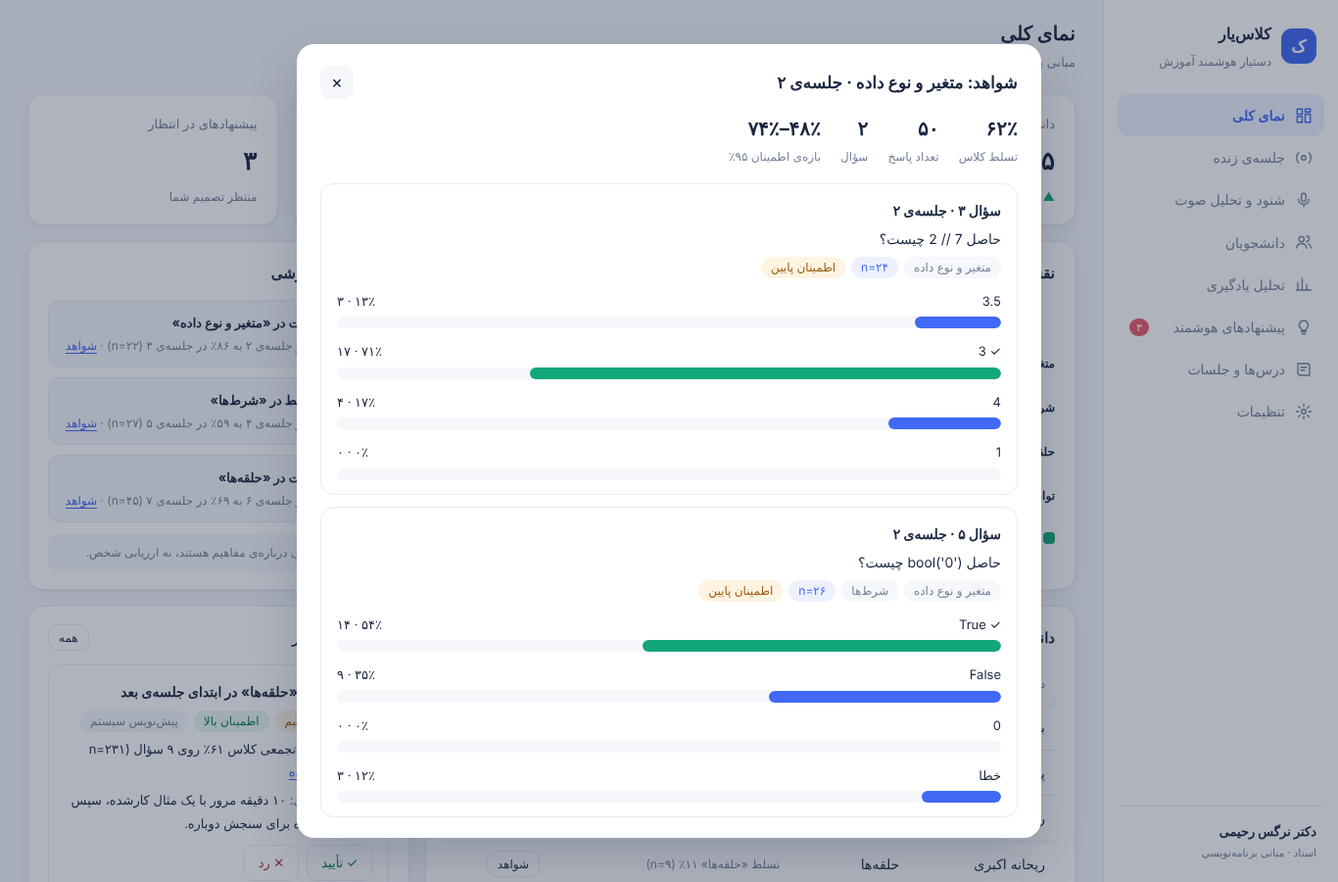
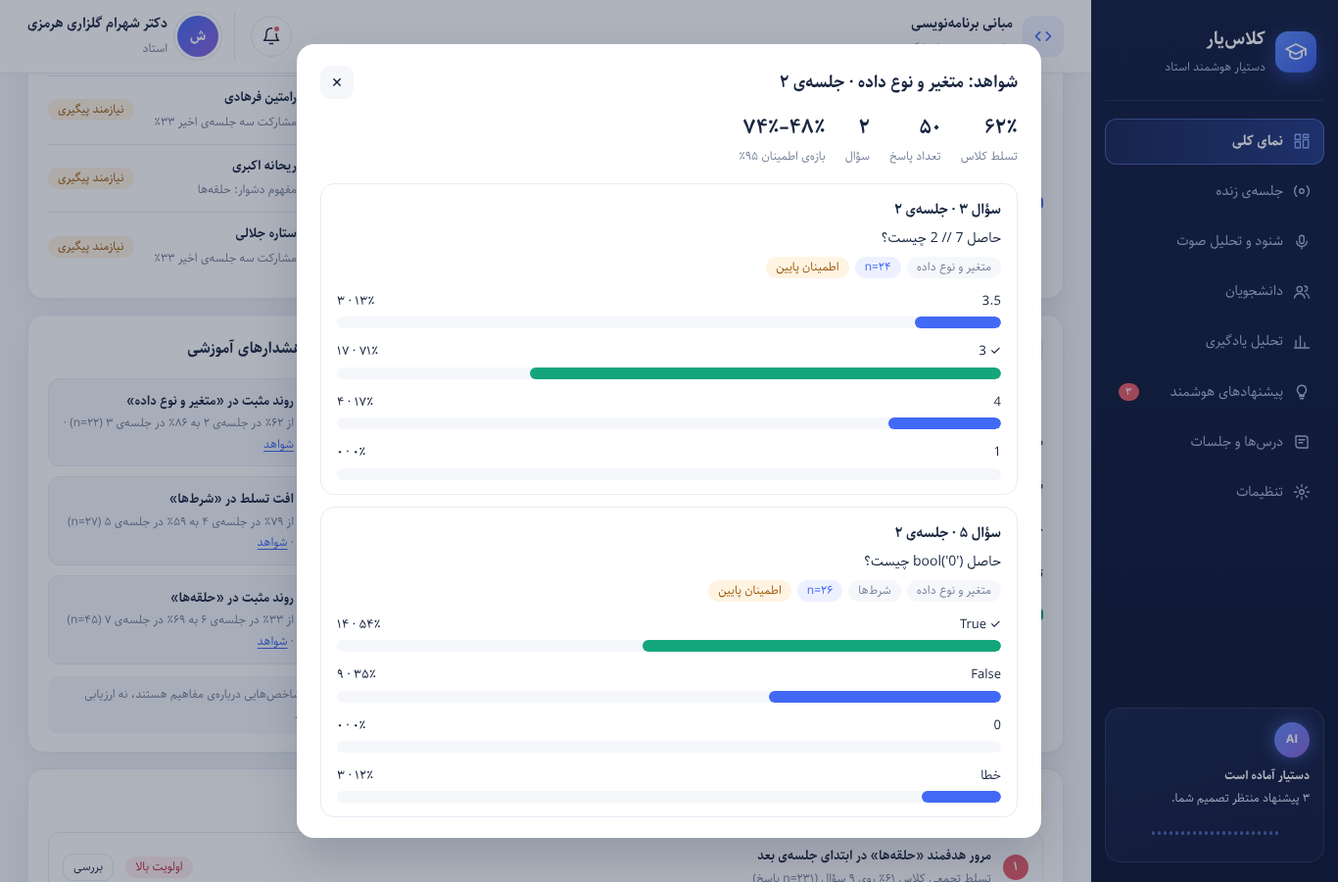
Redesign prototype UI: dark sidebar, top bar with live timer, AI assistant card, teacher greeting
Claude-Session: https://claude.ai/code/session_01KuYLP2b9Hy3ASqmPUQVQBk

diff --git a/prototype.html b/prototype.html
@@ -171,23 +171,113 @@ canvas.wave{width:100%;height:60px;display:block;background:var(--bg);border-rad
   .g2,.g4{grid-template-columns:minmax(0,1fr)}
   .topbar .sub{display:none}
 }
+
+/* ===== visual theme: dark sidebar, white top bar, soft cards ===== */
+:root{--navy:#0c1532;--navy-2:#16224d;--side-ink:#aab6d6}
+.sidebar{background:linear-gradient(180deg,#101b3f 0%,#0a1230 100%);border-left:0;width:252px;padding:20px 14px}
+.brand{border-bottom:1px solid rgba(255,255,255,.08);margin-bottom:14px;padding:4px 8px 20px}
+.brand .logo{width:42px;height:42px;border-radius:13px;background:linear-gradient(135deg,#5b8cff,#3a5ce8);box-shadow:0 6px 20px rgba(65,105,245,.45)}
+.brand .logo svg{width:24px;height:24px}
+.brand b{color:#fff;font-size:18px}.brand small{color:var(--side-ink)}
+.nav-btn{color:var(--side-ink);padding:11px 14px;margin-bottom:4px;border-radius:12px}
+.nav-btn:hover{background:rgba(255,255,255,.06);color:#fff}
+.nav-btn[aria-current=page]{background:linear-gradient(270deg,rgba(65,105,245,.38),rgba(65,105,245,.12));color:#fff;font-weight:700;box-shadow:inset 0 0 0 1px rgba(120,150,255,.45)}
+.nav-btn[aria-current=page] svg{color:#86a6ff}
+.ai-widget{margin-top:auto;border:1px solid rgba(255,255,255,.1);border-radius:16px;padding:14px;background:linear-gradient(160deg,rgba(91,140,255,.10),rgba(140,98,219,.06));color:#dfe6fa;font-size:12px;line-height:1.9}
+.ai-widget .bot{width:36px;height:36px;border-radius:50%;background:linear-gradient(135deg,#5b8cff,#8c62db);display:grid;place-items:center;font-weight:700;font-size:12px;color:#fff;box-shadow:0 0 18px rgba(91,140,255,.55);margin-bottom:8px}
+.ai-widget b{color:#fff}
+.eq{display:flex;align-items:center;gap:3px;height:30px;justify-content:center;margin-top:8px}
+.eq i{width:3px;border-radius:2px;background:#6f93ff;height:4px;opacity:.6}
+.eq.on i{animation:eq 1.1s ease-in-out infinite;opacity:1}
+@keyframes eq{0%,100%{height:4px}50%{height:26px}}
+.topbar{background:#fff;border-bottom:1px solid var(--line);padding:12px 28px;gap:16px;box-shadow:0 2px 10px rgba(25,38,64,.03)}
+.lesson{display:flex;align-items:center;gap:10px}
+.lesson-ic{width:42px;height:42px;border-radius:12px;background:var(--pale);color:var(--blue);display:grid;place-items:center}
+.lesson-ic svg{width:20px;height:20px}
+.lesson b{display:block;font-size:14px}.lesson small{color:var(--muted);font-size:12px}
+.live-chip{display:none;align-items:center;gap:10px;background:#f7f9fd;border:1px solid var(--line);border-radius:14px;padding:5px 12px 5px 8px}
+.live-chip.on{display:inline-flex}
+.live-chip .pill{background:var(--green-bg);color:#0b7a5a;border-radius:99px;padding:0 12px;font-size:12px;font-weight:700;line-height:26px}
+.live-chip .timer{color:var(--purple);font-weight:700;direction:ltr;font-size:15px;letter-spacing:.5px}
+.live-chip svg{width:18px;height:18px;color:var(--blue)}
+.bell{position:relative;width:42px;height:42px;border-radius:50%;border:1px solid var(--line);background:#fff;display:grid;place-items:center;color:var(--ink)}
+.bell svg{width:20px;height:20px}
+.bell .dot{position:absolute;top:8px;right:10px;width:9px;height:9px;border-radius:50%;background:var(--red);border:2px solid #fff}
+.teacher{display:flex;align-items:center;gap:10px;padding-inline-start:16px;border-inline-start:1px solid var(--line)}
+.teacher b{display:block;font-size:14px}.teacher small{color:var(--muted);font-size:12px}
+.avatar{width:42px;height:42px;border-radius:50%;display:grid;place-items:center;color:#fff;font-weight:700;flex:none;box-shadow:0 0 0 3px #fff,0 0 0 4px var(--line)}
+.avatar.sm{width:36px;height:36px;font-size:13px;box-shadow:none}
+.page-head{padding:24px 28px 16px}
+.page-head h1{font-size:24px;margin:0;display:flex;align-items:center;gap:8px}
+.page-head .sub{color:var(--muted);font-size:13px;margin-top:2px}
+.hand{display:inline-block;animation:wave 2.4s ease-in-out 2;transform-origin:70% 70%}
+@keyframes wave{0%,60%,100%{transform:rotate(0)}10%,30%{transform:rotate(16deg)}20%{transform:rotate(-8deg)}40%{transform:rotate(-4deg)}50%{transform:rotate(10deg)}}
+@media (prefers-reduced-motion:reduce){.hand,.eq.on i,.listen-pill .dot{animation:none}}
+.card{border:1px solid #e9edf6;box-shadow:0 1px 3px rgba(25,38,64,.03),0 12px 32px rgba(25,38,64,.05)}
+.card h2{font-size:15.5px}
+.hic{width:32px;height:32px;border-radius:10px;display:grid;place-items:center;flex:none}
+.hic svg{width:18px;height:18px}
+.hic.blue{background:var(--pale);color:var(--blue)}.hic.green{background:var(--green-bg);color:var(--green)}
+.hic.orange{background:var(--orange-bg);color:#d98415}.hic.purple{background:var(--purple-bg);color:var(--purple)}.hic.red{background:var(--red-bg);color:var(--red)}
+.stat{padding:18px 20px;gap:6px}
+.stat .top{display:flex;align-items:center;justify-content:space-between;gap:10px}
+.stat .sic{width:46px;height:46px;border-radius:14px}
+.stat .value{font-size:28px;line-height:1.3}
+.ai-card{background:linear-gradient(135deg,#f3efff 0%,#edf2ff 55%,#f8faff 100%);border:1px solid #e0e2fb;position:relative;overflow:hidden}
+.ai-card::before{content:"";position:absolute;width:260px;height:260px;border-radius:50%;background:radial-gradient(circle,rgba(140,98,219,.20),transparent 70%);top:-110px;left:-70px;pointer-events:none}
+.ai-card>*{position:relative}
+.ai-badge{width:32px;height:32px;border-radius:50%;background:linear-gradient(135deg,#5b8cff,#8c62db);color:#fff;font-size:12px;font-weight:700;display:grid;place-items:center;box-shadow:0 4px 14px rgba(91,140,255,.4)}
+.ai-inner{background:#fff;border-radius:14px;padding:16px 18px;box-shadow:0 6px 20px rgba(65,105,245,.08)}
+.ai-inner h3{font-size:15px;margin:10px 0 6px}
+.ai-inner p{margin:4px 0;font-size:13px}
+.flag{display:inline-block;background:var(--orange);color:#fff;border-radius:8px;padding:0 12px;font-size:12px;font-weight:700;line-height:24px}
+.mini{display:grid;grid-template-columns:repeat(3,minmax(0,1fr));gap:10px;margin-top:14px}
+.mini>div{background:#fff;border:1px solid var(--line);border-radius:12px;padding:10px 12px;text-align:center;font-size:12px;color:var(--muted)}
+.mini b{font-size:21px;display:block;line-height:1.5}
+.t-green{color:var(--green)}.t-orange{color:#e08a17}.t-red{color:var(--red)}.t-blue{color:var(--blue)}
+.dark-card{background:linear-gradient(165deg,#16224d,#0b1430);color:#dfe6fa;border:0}
+.dark-card h2{color:#fff}
+.dark-card .item{border-bottom:1px solid rgba(255,255,255,.08);padding:10px 0;font-size:13px}
+.dark-card .item:last-child{border:0}
+.dark-card .item .lbl{display:block;color:#9fb0d6;font-size:12px}
+.dark-card .item b{color:#fff}
+.dark-card .hic{background:rgba(255,255,255,.08);color:#9db7ff}
+.person{display:flex;align-items:center;gap:10px;padding:10px 0;border-bottom:1px solid var(--line);cursor:pointer}
+.person:last-child{border:0}
+.person .who{flex:1;min-width:0}
+.person .who b{display:block;font-size:13px}.person .who small{color:var(--muted);font-size:12px}
+.crow{padding:9px 0;border-bottom:1px solid var(--line);cursor:pointer;display:block;width:100%;background:none;border-width:0 0 1px;text-align:right}
+.crow:last-child{border:0}
+.crow .top{display:flex;justify-content:space-between;font-size:13px;margin-bottom:5px;gap:8px}
+.prio{display:flex;align-items:center;gap:12px;border:1px solid var(--line);border-radius:12px;padding:12px 14px;background:#fff}
+.prio+.prio{margin-top:10px}
+.prio .num{width:26px;height:26px;border-radius:50%;color:#fff;display:grid;place-items:center;font-size:12px;font-weight:700;flex:none}
+.prio .txt{flex:1;font-size:13px}
+.span2{grid-column:span 2}
+@media (max-width:1100px){.span2{grid-column:auto}}
+@media (max-width:900px){.teacher>div:last-child,.lesson>div{display:none}.teacher{border:0;padding:0}}
+@media (max-width:720px){.page-head{padding:16px 16px 10px}.page-head h1{font-size:19px}.topbar{padding:10px 16px;gap:10px}.lesson{display:none}.live-chip .pill{display:none}.mini b{font-size:17px}}
 </style>
 </head>
 <body>
 <div class="layout">
   <aside class="sidebar" id="sidebar" aria-label="منوی اصلی">
-    <div class="brand"><div class="logo" aria-hidden="true">ک</div><div><b>کلاسیار</b><small>دستیار هوشمند آموزش</small></div></div>
+    <div class="brand"><div class="logo" aria-hidden="true"><svg viewBox="0 0 24 24" fill="none" stroke="#fff" stroke-width="1.8" stroke-linecap="round" stroke-linejoin="round"><path d="M2 9l10-5 10 5-10 5z"/><path d="M6 11v5c0 1.5 3 3 6 3s6-1.5 6-3v-5M22 9v6"/></svg></div><div><b>کلاسیار</b><small>دستیار هوشمند استاد</small></div></div>
     <nav id="nav"></nav>
-    <div class="me"><b>دکتر نرگس رحیمی</b><small>استاد · مبانی برنامهنویسی</small></div>
+    <div class="ai-widget" id="aiWidget"></div>
   </aside>
   <div class="backdrop" id="backdrop" data-act="closeMenu"></div>
   <main>
     <header class="topbar">
       <button class="menu-btn" data-act="openMenu" aria-label="باز کردن منو">☰</button>
-      <div><h1 id="pageTitle"></h1><div class="sub" id="pageSub"></div></div>
+      <div class="lesson"><span class="lesson-ic" aria-hidden="true"><svg viewBox="0 0 24 24" fill="none" stroke="currentColor" stroke-width="2" stroke-linecap="round" stroke-linejoin="round"><path d="M8 7l-5 5 5 5M16 7l5 5-5 5"/></svg></span><div><b id="lessonTitle"></b><small id="lessonSub"></small></div></div>
       <div class="spacer"></div>
+      <div class="live-chip" id="liveChip" role="status"><span class="pill">در حال برگزاری</span><span class="timer" id="timer">00:00:00</span><svg viewBox="0 0 24 24" fill="none" stroke="currentColor" stroke-width="2" stroke-linecap="round" aria-hidden="true"><rect x="9" y="3" width="6" height="11" rx="3"/><path d="M5 11a7 7 0 0 0 14 0M12 18v3"/></svg></div>
       <span class="listen-pill" id="listenPill" role="status"><span class="dot" aria-hidden="true"></span>در حال شنود<button data-act="audioStop">توقف</button></span>
+      <button class="bell" data-act="go" data-v="suggestions" id="bell" aria-label="اعلانها"><svg viewBox="0 0 24 24" fill="none" stroke="currentColor" stroke-width="1.8" stroke-linecap="round" stroke-linejoin="round" aria-hidden="true"><path d="M6 8a6 6 0 0 1 12 0c0 7 3 9 3 9H3s3-2 3-9M10 21h4"/></svg></button>
+      <div class="teacher"><div class="avatar" id="teacherAvatar" style="background:linear-gradient(135deg,#4169f5,#8c62db)" aria-hidden="true"></div><div><b id="teacherName"></b><small>استاد</small></div></div>
     </header>
+    <div class="page-head"><h1 id="pageTitle"></h1><div class="sub" id="pageSub"></div></div>
     <div class="view" id="view"></div>
   </main>
 </div>
@@ -221,7 +311,7 @@ const nowTime = () => fa(new Date().toLocaleTimeString('en-GB', {hour:'2-digit',
 const settings = {green:0.75, orange:0.50, minClass:10, minStudent:8, showNames:true, retention:30, dropAlert:10, llm:'university-local', stt:'faster-whisper'};
 
 /* ================= seed data ================= */
-const course = {title:'مبانی برنامهنویسی', code:'CS101', term:'پاییز ۱۴۰۵', teacher:'دکتر نرگس رحیمی'};
+const course = {title:'مبانی برنامهنویسی', code:'CS101', term:'پاییز ۱۴۰۵', teacher:'دکتر شهرام گلزاری هرمزی'};
 const concepts = [
   {id:0, t:'متغیر و نوع داده', from:1, color:'#4169f5'},
   {id:1, t:'شرطها', from:2, color:'#8c62db'},
@@ -431,7 +521,14 @@ const C = {
     const r = size/2 - 7, L = 2 * Math.PI * r, col = {g:'var(--green)', o:'var(--orange)', r:'var(--red)'}[A.level(v)];
     return `<div class="ring" style="width:${size}px;height:${size}px"><svg width="${size}" height="${size}" aria-hidden="true"><circle cx="${size/2}" cy="${size/2}" r="${r}" stroke="var(--line)" stroke-width="7" fill="none"/><circle cx="${size/2}" cy="${size/2}" r="${r}" stroke="${col}" stroke-width="7" fill="none" stroke-linecap="round" stroke-dasharray="${L*v} ${L}" transform="rotate(-90 ${size/2} ${size/2})"/></svg><span>${pct(v)}</span></div>`;
   },
-  stat: (label, value, delta, act) => `<button class="card stat" data-act="${act}"><span class="label">${label}</span><span class="value">${value}</span><span class="delta">${delta}</span></button>`,
+  svg: (k) => `<svg viewBox="0 0 24 24" fill="none" stroke="currentColor" stroke-width="1.8" stroke-linecap="round" stroke-linejoin="round" aria-hidden="true">${icons[k]}</svg>`,
+  h2: (icon, color, title) => `<h2><span class="hic ${color}">${C.svg(icon)}</span>${title}</h2>`,
+  stat: (label, value, delta, act, icon = 'dashboard', color = 'blue') => `<button class="card stat" data-act="${act}"><span class="top"><span><span class="label">${label}</span><span class="value" style="display:block">${value}</span></span><span class="hic sic ${color}">${C.svg(icon)}</span></span><span class="delta">${delta}</span></button>`,
+  avatar(s, cls = 'sm') {
+    const cols = ['#4169f5', '#8c62db', '#13a67b', '#e08a17', '#e85b68', '#0e9fb5', '#c2477f'];
+    const txt = settings.showNames ? s.name.trim()[0] : s.code;
+    return `<span class="avatar ${cls}" style="background:${cols[s.id % cols.length]}" aria-hidden="true">${txt}</span>`;
+  },
   delta(d, unit = '', goodUp = true) {
     if (d === 0) return 'بدون تغییر نسبت به جلسهی قبل';
     const up = d > 0, good = up === goodUp;
@@ -464,27 +561,37 @@ const C = {
       ${s.status === 'approved' && s.output === 'question' && !compact ? `<div class="actions"><button class="btn" data-act="draftQuestion" data-id="${s.id}" ${s.drafted ? 'disabled' : ''}>${s.drafted ? 'پیشنویس سؤال ساخته شد' : 'ساخت پیشنویس سؤال مشابه'}</button></div>` : ''}
     </div>`;
   },
-  lineChart(series, {h = 220, yMin = 0} = {}) {
-    const W = 640, H = h, P = {l:36, r:16, t:12, b:28}, n = sessions.length;
+  lineChart(series, {h = 220, w = 640, yMin = 0, area = false, threshold = true, label = 'نمودار روند تسلط', hollowNote = true} = {}) {
+    const gid = 'g' + Math.random().toString(36).slice(2, 8); let defs = '';
+    const W = w, H = h, P = {l:36, r:16, t:12, b:28}, n = sessions.length;
     const x = i => W - P.r - (i * (W - P.l - P.r) / (n - 1)); // RTL: session 1 on the right
     const y = v => P.t + (1 - (v - yMin) / (1 - yMin)) * (H - P.t - P.b);
     let g = '';
     for (const t of [0, .25, .5, .75, 1]) g += `<line x1="${P.l}" x2="${W-P.r}" y1="${y(t)}" y2="${y(t)}" stroke="var(--line)"/><text x="${P.l-6}" y="${y(t)+4}" font-size="10" fill="var(--muted)" text-anchor="end">${pct(t)}</text>`;
-    g += `<line x1="${P.l}" x2="${W-P.r}" y1="${y(settings.green)}" y2="${y(settings.green)}" stroke="var(--green)" stroke-dasharray="4 4" opacity=".6"/>`;
+    if (threshold) g += `<line x1="${P.l}" x2="${W-P.r}" y1="${y(settings.green)}" y2="${y(settings.green)}" stroke="var(--green)" stroke-dasharray="4 4" opacity=".6"/>`;
     sessions.forEach((s, i) => g += `<text x="${x(i)}" y="${H-8}" font-size="10" fill="var(--muted)" text-anchor="middle">ج${fa(s.n)}</text>`);
-    for (const sr of series) {
+    for (const [si, sr] of series.entries()) {
       const pts = sr.points.map((p, i) => p && {x:x(i), y:y(p.v), ok:p.ok, v:p.v, n:p.n}).filter(Boolean);
       const solid = pts.filter(p => p.ok);
-      if (solid.length > 1) g += `<polyline fill="none" stroke="${sr.color}" stroke-width="2.2" points="${solid.map(p => `${p.x},${p.y}`).join(' ')}"/>`;
+      if (area && solid.length > 1) {
+        defs += `<linearGradient id="${gid}${si}" x1="0" y1="0" x2="0" y2="1"><stop offset="0" stop-color="${sr.color}" stop-opacity=".26"/><stop offset="1" stop-color="${sr.color}" stop-opacity="0"/></linearGradient>`;
+        g += `<polygon fill="url(#${gid}${si})" points="${solid[0].x},${y(yMin)} ${solid.map(p => `${p.x},${p.y}`).join(' ')} ${solid[solid.length - 1].x},${y(yMin)}"/>`;
+      }
+      if (solid.length > 1) g += `<polyline fill="none" stroke-linejoin="round" stroke-linecap="round" stroke="${sr.color}" stroke-width="2.6" points="${solid.map(p => `${p.x},${p.y}`).join(' ')}"/>`;
       for (const p of pts) g += `<circle cx="${p.x}" cy="${p.y}" r="4" fill="${p.ok ? sr.color : '#fff'}" stroke="${sr.color}" stroke-width="2"><title>${sr.name}: ${pct(p.v)} (n=${fa(p.n)})${p.ok ? '' : ' — داده کافی نیست'}</title></circle>`;
     }
     const legend = series.map(s => `<span><i style="background:${s.color}"></i>${s.name}</span>`).join('');
-    return `<svg viewBox="0 0 ${W} ${H}" width="100%" role="img" aria-label="نمودار روند تسلط">${g}</svg><div class="legend">${legend}<span><i style="background:#fff;border:2px solid var(--muted)"></i>نقطهی توخالی: داده کافی نیست</span></div>`;
+    return `<svg viewBox="0 0 ${W} ${H}" width="100%" role="img" aria-label="${label}"><defs>${defs}</defs>${g}</svg><div class="legend">${legend}${hollowNote ? '<span><i style="background:#fff;border:2px solid var(--muted)"></i>نقطهی توخالی: داده کافی نیست</span>' : ''}</div>`;
   },
 };
 
 /* ================= views ================= */
 const icons = {
+  alert:'<path d="M12 3l10 18H2zM12 10v5M12 18v.5"/>',
+  target:'<circle cx="12" cy="12" r="9"/><circle cx="12" cy="12" r="5"/><circle cx="12" cy="12" r="1"/>',
+  doc:'<path d="M6 3h9l4 4v14H6z"/><path d="M9 12h7M9 16h5"/>',
+  spark:'<path d="M12 3v4M12 17v4M3 12h4M17 12h4M6 6l2.5 2.5M15.5 15.5L18 18M6 18l2.5-2.5M15.5 8.5L18 6"/>',
+  grid:'<rect x="3" y="3" width="7" height="7" rx="1.5"/><rect x="14" y="3" width="7" height="7" rx="1.5"/><rect x="3" y="14" width="7" height="7" rx="1.5"/><rect x="14" y="14" width="7" height="7" rx="1.5"/>',
   dashboard:'<path d="M3 3h7v7H3zM14 3h7v4h-7zM14 10h7v11h-7zM3 13h7v8H3z"/>',
   live:'<circle cx="12" cy="12" r="3"/><path d="M5 5a10 10 0 0 0 0 14M19 5a10 10 0 0 1 0 14"/>',
   audio:'<rect x="9" y="3" width="6" height="11" rx="3"/><path d="M5 11a7 7 0 0 0 14 0M12 18v3"/>',
@@ -508,24 +615,60 @@ V.dashboard = () => {
   const pending = suggestions.filter(s => s.status === 'pending');
   const need = students.map(s => ({s, a:A.student(s.id)})).filter(x => x.a.attention);
   const alerts = A.alerts();
+  const lastStat = A.stat(responses.filter(r => r.session === last));
+  const cm = concepts.map(c => ({c, ...A.upTo(c.id, last), prev:A.upTo(c.id, prev)})).filter(x => x.n);
+  const weakest = cm.slice().sort((x, y) => x.ok / x.n - y.ok / y.n)[0];
+  const ps = A.participationBySession();
+  const partSeries = [
+    {name:'نرخ پاسخ', color:'#4169f5', points:ps.map((p, i) => p == null ? null : {v:p, n:responses.filter(r => r.session === i + 1).length, ok:true})},
+    {name:'درستپاسخی', color:'#13a67b', points:sessions.map(se => { const st = A.stat(responses.filter(r => r.session === se.n)); return st.n ? {v:st.ok / st.n, n:st.n, ok:st.n >= settings.minClass} : null; })},
+  ];
+  const top = pending[0];
+  const avgPart = sum(ps.filter(p => p != null)) / ps.filter(p => p != null).length;
+  const overall = avgM(last);
   return `
   <div class="grid g4">
-    ${C.stat('دانشجویان فعال', `${fa(active(last))} <span class="muted small">از ${fa(students.length)}</span>`, C.delta(active(last) - active(prev)), 'go" data-v="students')}
-    ${C.stat('میانگین تسلط مفهومی', pct(avgM(last)), C.delta(Math.round((avgM(last) - avgM(prev)) * 100), '٪'), 'go" data-v="analytics')}
-    ${C.stat('نیازمند توجه', fa(att(last)), C.delta(att(last) - att(prev), '', false), 'filterAttention')}
-    ${C.stat('پیشنهادهای در انتظار', fa(pending.length), 'منتظر تصمیم شما', 'go" data-v="suggestions')}
+    ${C.stat('دانشجویان فعال', `${fa(active(last))} <span class="muted small">از ${fa(students.length)}</span>`, C.delta(active(last) - active(prev)), 'go" data-v="students', 'students', 'blue')}
+    ${C.stat('میانگین تسلط مفهومی', pct(avgM(last)), C.delta(Math.round((avgM(last) - avgM(prev)) * 100), '٪'), 'go" data-v="analytics', 'analytics', 'green')}
+    ${C.stat('نیازمند توجه', fa(att(last)), C.delta(att(last) - att(prev), '', false), 'filterAttention', 'alert', 'orange')}
+    ${C.stat('پیشنهادهای در انتظار', fa(pending.length), 'منتظر تصمیم شما', 'go" data-v="suggestions', 'suggestions', 'purple')}
   </div>
-  <div class="grid g-main mt">
-    <div class="card"><div class="card-head"><h2>نقشهی تسلط مفاهیم</h2><span class="hint">برای دیدن سؤالها و n روی هر خانه کلیک کنید</span></div>${C.heatmap()}</div>
-    <div class="card"><div class="card-head"><h2>هشدارهای آموزشی</h2></div>${alerts.length ? alerts.map(C.alert).join('') : '<div class="empty">هشداری وجود ندارد.</div>'}<div class="note">${T.notJudgement}</div></div>
+  <div class="grid g3 mt">
+    <div class="card ai-card span2"><div class="card-head"><h2><span class="ai-badge">AI</span>دستیار هوشمند کلاس</h2><span class="hint">پیشنویس — بدون تأیید شما اجرا نمیشود</span></div>
+      ${top ? `<div class="ai-inner"><div class="inline" style="flex-wrap:wrap"><span class="flag">پیشنهاد در انتظار تصمیم</span>${C.confTag(top.conf)}</div>
+        <h3>${esc(top.title)}</h3>
+        <p><span class="muted">شواهد:</span> ${top.evidence} · <button class="link" data-act="evidence" data-ev='${JSON.stringify(top.ev)}'>مشاهده</button></p>
+        <p><span class="muted">اقدام پیشنهادی:</span> ${esc(top.action)}</p>
+        <div class="sugg" style="border:0;padding:0"><div class="actions"><button class="btn primary" data-act="decide" data-id="${top.id}" data-d="approved">اعمال پیشنهاد</button><button class="btn" data-act="decide" data-id="${top.id}" data-d="rejected">رد کردن</button><span style="margin-inline-start:auto"></span><button class="link small" data-act="go" data-v="suggestions">همهی پیشنهادها (${fa(pending.length)})</button></div></div></div>`
+        : '<div class="ai-inner"><div class="empty">همهی پیشنهادها بررسی شدهاند.</div></div>'}
+      <div class="mini">
+        <div><b class="t-green">${lastStat.n ? pct(lastStat.ok / lastStat.n) : '—'}</b>درستپاسخی جلسهی ${fa(last)}<br><span class="small">n=${fa(lastStat.n)}</span></div>
+        <div><b class="t-orange">${fa(audio.counts.confusion)}</b>نشانهی ابهام گفتاری<br><span class="small">${audio.consent ? 'از رونوشت امروز' : 'شنود فعال نشده'}</span></div>
+        <div><b class="t-red">${pct(weakest.ok / weakest.n)}</b>دشوارترین مفهوم<br><span class="small">${weakest.c.t}</span></div>
+      </div></div>
+    <div class="card dark-card"><div class="card-head">${C.h2('doc', '', 'خلاصهی ترم تا امروز')}</div>
+      <div class="item"><span class="lbl">مفاهیم پوششدادهشده</span><b>${concepts.filter(c => cm.some(x => x.c.id === c.id)).map(c => c.t).join('، ')}</b></div>
+      <div class="item"><span class="lbl">جلسات و پاسخها</span><b>${fa(last)} جلسه · ${fa(responses.length)} پاسخ ثبتشده</b></div>
+      <div class="item"><span class="lbl">میانگین نرخ پاسخ</span><b>${pct(avgPart)}</b></div>
+      <div class="item"><span class="lbl">وضعیت کلی تسلط کلاس</span><b>${pct(overall)}</b> ${C.levelTag(overall)}</div>
+    </div>
   </div>
-  <div class="grid g-main mt">
-    <div class="card"><div class="card-head"><h2>دانشجویان نیازمند توجه</h2><span class="hint">${fa(need.length)} نفر</span><div class="end"><button class="btn sm" data-act="filterAttention">همه</button></div></div>
-      <div class="table-wrap"><table><thead><tr><th>دانشجو</th><th>مفهوم دشوار</th><th>دلیل</th><th></th></tr></thead><tbody>
-      ${need.slice(0, 6).map(({s, a}) => `<tr class="clickable" data-act="student" data-id="${s.id}"><td>${esc(studentName(s))}</td><td>${a.hard ? a.hard.c.t : '—'}</td><td class="small muted">${a.reasons[0]}</td><td><button class="btn sm" data-act="student" data-id="${s.id}">شواهد</button></td></tr>`).join('') || '<tr><td colspan="4" class="empty">موردی نیست.</td></tr>'}
-      </tbody></table></div></div>
-    <div class="card"><div class="card-head"><h2>پیشنهادهای اخیر</h2><div class="end"><button class="btn sm" data-act="go" data-v="suggestions">همه</button></div></div>
-      ${pending.slice(0, 2).map(s => C.suggestion(s, true)).join('') || '<div class="empty">پیشنهاد در انتظاری نیست.</div>'}</div>
+  <div class="grid g3 mt">
+    <div class="card"><div class="card-head">${C.h2('analytics', 'blue', 'نمودار مشارکت کلاس')}</div>${C.lineChart(partSeries, {h:300, w:380, area:true, threshold:false, label:'نمودار مشارکت و درستپاسخی', hollowNote:false})}</div>
+    <div class="card"><div class="card-head">${C.h2('target', 'purple', 'وضعیت درک مفاهیم')}<span class="hint">تجمعی</span></div>
+      ${cm.map(x => { const m = x.ok / x.n, d = x.prev.n ? Math.round((m - x.prev.ok / x.prev.n) * 100) : 0;
+        return `<button class="crow" data-act="evidence" data-ev='{"type":"concept","c":${x.c.id}}'><div class="top"><b>${x.c.t}</b><span><b class="${{g:'t-green', o:'t-orange', r:'t-red'}[A.level(m)]}">${pct(m)}</b> <span class="muted small">n=${fa(x.n)}</span> ${d ? `<span class="small ${d > 0 ? 't-green' : 't-red'}">${d > 0 ? '▲' : '▼'}${fa(Math.abs(d))}</span>` : ''}</span></div>${C.progress(m)}</button>`; }).join('')}
+    </div>
+    <div class="card"><div class="card-head">${C.h2('students', 'orange', 'دانشجویان نیازمند توجه')}<div class="end"><button class="link small" data-act="filterAttention">مشاهدهی همه (${fa(need.length)})</button></div></div>
+      ${need.slice(0, 5).map(({s, a}) => `<div class="person" data-act="student" data-id="${s.id}" tabindex="0" role="button">${C.avatar(s)}<div class="who"><b>${esc(studentName(s))}</b><small>${a.hard ? `مفهوم دشوار: ${a.hard.c.t}` : a.reasons[0]}</small></div>${C.tag('نیازمند پیگیری', 'orange')}</div>`).join('') || '<div class="empty">موردی نیست.</div>'}
+    </div>
+  </div>
+  <div class="grid g3 mt">
+    <div class="card span2"><div class="card-head">${C.h2('grid', 'green', 'نقشهی تسلط مفاهیم')}<span class="hint">برای دیدن سؤالها و n روی هر خانه کلیک کنید</span></div>${C.heatmap()}</div>
+    <div class="card"><div class="card-head">${C.h2('alert', 'red', 'هشدارهای آموزشی')}</div>${alerts.length ? alerts.map(C.alert).join('') : '<div class="empty">هشداری وجود ندارد.</div>'}<div class="note">${T.notJudgement}</div></div>
+  </div>
+  <div class="card mt"><div class="card-head">${C.h2('suggestions', 'orange', 'پیشنهادهای ادامهی تدریس')}<span class="hint">به ترتیب اولویت · فقط با تأیید شما</span></div>
+    ${pending.map((sg, i) => `<div class="prio"><span class="num" style="background:${['var(--red)', 'var(--purple)', 'var(--orange)', 'var(--blue)'][i % 4]}">${fa(i + 1)}</span><span class="txt"><b>${esc(sg.title)}</b><br><span class="muted small">${sg.evidence}</span></span>${i < 2 ? C.tag('اولویت بالا', 'red') : C.tag('اولویت متوسط', 'green')}<button class="btn sm" data-act="go" data-v="suggestions">بررسی</button></div>`).join('') || '<div class="empty">پیشنهاد در انتظاری نیست.</div>'}
   </div>`;
 };
 
@@ -833,7 +976,7 @@ const ACT = {
     toast('پیشنویس به بانک سؤال اضافه شد و تا تأیید شما استفاده نمیشود.'); render();
   },
   approveQ: el => { A.qById(+el.dataset.id).status = 'approved'; toast('سؤال تأیید شد و به بانک اضافه شد.'); render(); },
-  liveStart: () => { live.running = true; live.code = String(100000 + Math.floor(Math.random() * 900000)); render(); },
+  liveStart: () => { live.running = true; live.startedAt = Date.now(); live.code = String(100000 + Math.floor(Math.random() * 900000)); render(); },
   liveEnd: () => { if (live.qState && live.qState !== 'closed') ACT.liveClose(); clearInterval(live.timer); Object.assign(live, {running:false, code:null, qid:null, qState:null, answers:[]}); toast('جلسه پایان یافت و کد ورود باطل شد.'); render(); },
   liveAsk: el => {
     live.qid = +el.dataset.id; live.qState = 'open'; live.answers = []; live.previewSel = null;
@@ -884,8 +1027,17 @@ document.addEventListener('change', e => {
 
 /* ================= render ================= */
 function render() {
-  $('#pageTitle').textContent = T.nav[state.view];
-  $('#pageSub').textContent = T.sub[state.view];
+  $('#pageTitle').innerHTML = state.view === 'dashboard' ? `سلام ${esc(course.teacher)} <span class="hand" role="img" aria-label="دست تکاندادن">👋</span>` : T.nav[state.view];
+  $('#pageSub').textContent = state.view === 'dashboard' ? `${course.title} · ${course.term} · امروز ${sessions[sessions.length - 1].date} — نگاهی به وضعیت کلاس شما` : T.sub[state.view];
+  $('#lessonTitle').textContent = course.title;
+  $('#lessonSub').textContent = `جلسهی ${fa(sessions.length)} · ${sessions[sessions.length - 1].topic}`;
+  $('#teacherName').textContent = course.teacher;
+  $('#teacherAvatar').textContent = course.teacher.replace('دکتر', '').trim()[0];
+  $('#liveChip').classList.toggle('on', live.running);
+  const pend = suggestions.filter(s => s.status === 'pending').length;
+  $('#bell').innerHTML = $('#bell').innerHTML.replace(/<span class="dot"[^>]*><\/span>/, '') + (pend ? '<span class="dot" aria-hidden="true"></span>' : '');
+  $('#bell').setAttribute('aria-label', pend ? `اعلانها: ${fa(pend)} پیشنهاد در انتظار` : 'اعلانها');
+  $('#aiWidget').innerHTML = `<div class="bot" aria-hidden="true">AI</div>${audio.listening ? '<b>در حال تحلیل صدا</b><br>رونوشت و نشانههای گفتاری کلاس…' : live.running ? '<b>جلسهی زنده فعال است</b><br>پاسخها لحظهای تحلیل میشوند.' : `<b>دستیار آماده است</b><br>${fa(pend)} پیشنهاد منتظر تصمیم شما.`}<div class="eq ${audio.listening ? 'on' : ''}" aria-hidden="true">${Array.from({length:22}, (_, i) => `<i style="animation-delay:${(i % 7) * 0.12}s"></i>`).join('')}</div>`;
   $('#listenPill').classList.toggle('on', audio.listening);
   renderNav();
   $('#view').innerHTML = V[state.view]();
@@ -893,6 +1045,8 @@ function render() {
   if (state.view === 'audio') { const el = $('#transcript'); el.scrollTop = el.scrollHeight; if (!audio.raf) drawWave(); }
 }
 window.addEventListener('hashchange', () => { const v = location.hash.slice(1); if (T.nav[v] && v !== state.view) { state.view = v; render(); } });
+setInterval(() => { if (!live.running) return; const t = Math.floor((Date.now() - live.startedAt) / 1000); $('#timer').textContent = [t / 3600, t / 60 % 60, t % 60].map(x => String(Math.floor(x)).padStart(2, '0')).join(':'); }, 1000);
+document.addEventListener('keydown', e => { if ((e.key === 'Enter' || e.key === ' ') && e.target.matches('.person[data-act]')) { e.preventDefault(); ACT.student(e.target); } });
 buildSuggestions();
 { const v = location.hash.slice(1); if (T.nav[v]) state.view = v; }
 render();
